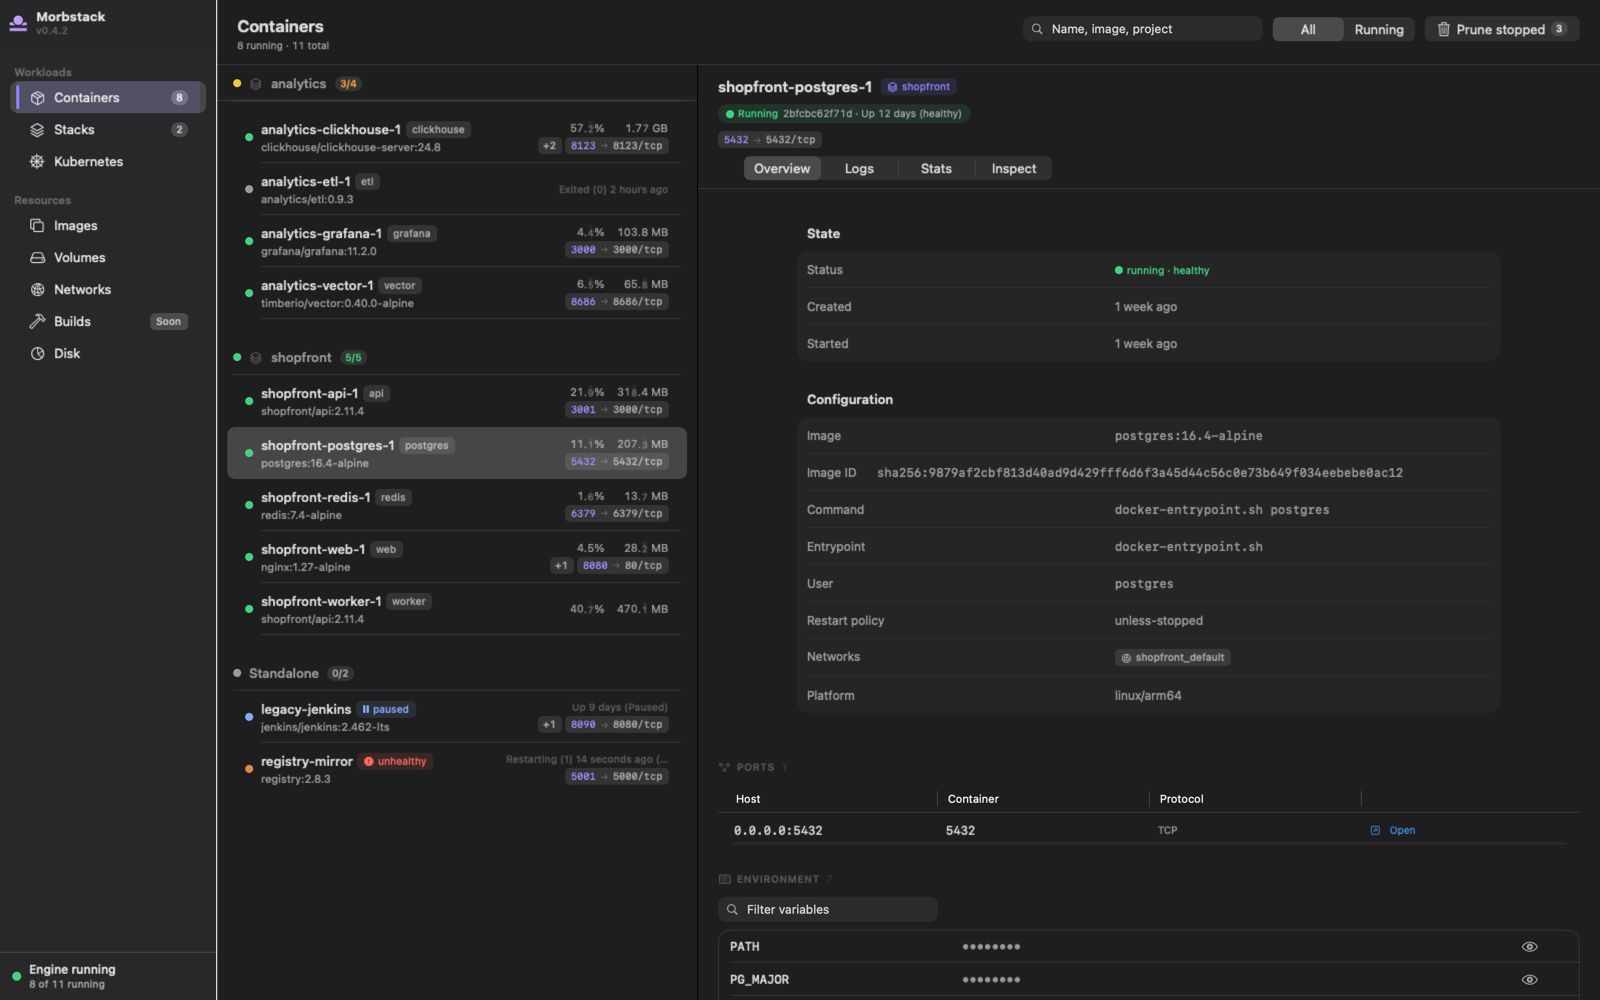
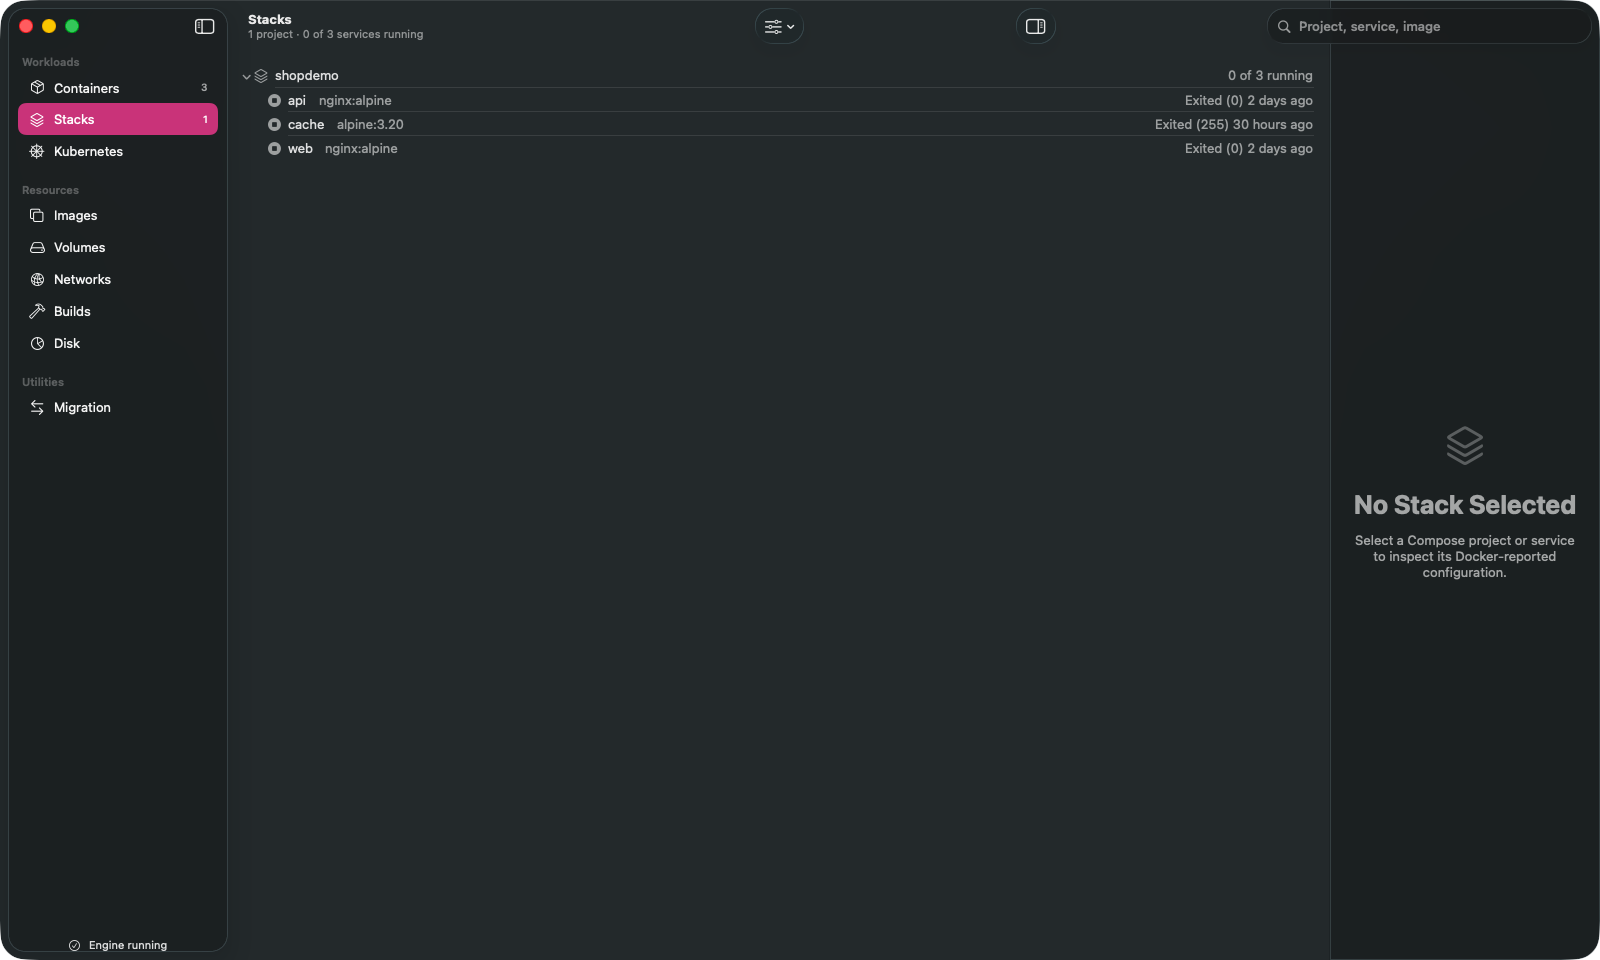
docs(site): refresh containers and Kubernetes shots with real captures (#20)
* docs(site): refresh containers and Kubernetes shots with real captures

Replace the dark containers and Kubernetes images with window-only captures
from the Aug 26 2026 session, and say so in the gallery intro and in
site/assets/shots/README.md. Other images are unchanged: no newer light-mode,
logs, palette, or menubar captures exist, and dark-only stacks/disk captures
would not fit their light-named slots.

* docs(site): say which gallery images are real captures

Narrow the gallery intro and the Kubernetes alt text and caption to match the
refreshed images.

---------

diff --git a/site/index.html b/site/index.html
@@ -237,7 +237,7 @@
     <div class="wrap">
       <span class="eyebrow">Screens</span>
       <h2>What it looks like.</h2>
-      <p class="section-intro">Rendered from the real shipping SwiftUI views via the app's own screenshot harness, not mockups. Some fixture data (container names, version strings) is placeholder test data, not a claim about the current release.</p>
+      <p class="section-intro">The dark containers screen (also the hero) and the Kubernetes screen are unedited real window captures from a Mac mini on Aug 26, 2026. The other screens are still renders from the app's own screenshot harness, not mockups. Some fixture data (container names, version strings) is placeholder test data, not a claim about the current release.</p>
       <div class="grid grid-2">
         <figure class="gallery-item">
           <img src="assets/shots/images-light.png" alt="The Morbstack Images screen, listing pulled images with repository, tag, size, and created-date columns.">
@@ -248,8 +248,8 @@
           <figcaption><strong>Stacks.</strong> Compose projects grouped by service, with per-container state rolled up under the stack that owns them.</figcaption>
         </figure>
         <figure class="gallery-item">
-          <img src="assets/shots/kubernetes-dark.png" alt="The Morbstack Kubernetes screen in dark mode, showing cluster status and node readiness for the local morb k8s cluster.">
-          <figcaption><strong>Kubernetes.</strong> Status for the local <code class="inline">morb k8s</code> single-node cluster, wired to the same engine as everything else.</figcaption>
+          <img src="assets/shots/kubernetes-dark.png" alt="The Morbstack Kubernetes screen in dark mode, showing the local morb k8s cluster node status and its pods with namespace, ready, restarts, node, and age columns.">
+          <figcaption><strong>Kubernetes.</strong> Node status and pods for the local <code class="inline">morb k8s</code> single-node cluster, wired to the same engine as everything else.</figcaption>
         </figure>
         <figure class="gallery-item">
           <img src="assets/shots/command-palette-dark.png" alt="The Morbstack command palette in dark mode, showing a searchable list of containers, images, and actions.">

diff --git a/site/assets/shots/README.md b/site/assets/shots/README.md
@@ -1,0 +1,13 @@
+# Site screenshots
+
+- `containers-dark.png` and `kubernetes-dark.png` are real window captures
+  (window only, unedited) taken in a Morbstack session on a Mac mini on
+  2026-08-26. Containers is the engine's own demo state: mostly exited
+  containers, no staging. Kubernetes shows a pod selected; its inspector runs
+  off the bottom of the window as captured.
+- The remaining images (`*-light.png`, `command-palette-dark.png`,
+  `container-logs-dark.png`, `menubar-popover-dark.png`) are older
+  screenshot-harness renders from 2026-08-02 and have not been refreshed. Fixture
+  names and versions in them are placeholder data.
+- Light-mode counterparts of the new captures do not exist yet, so the hero's
+  light variant still shows the older harness render.
